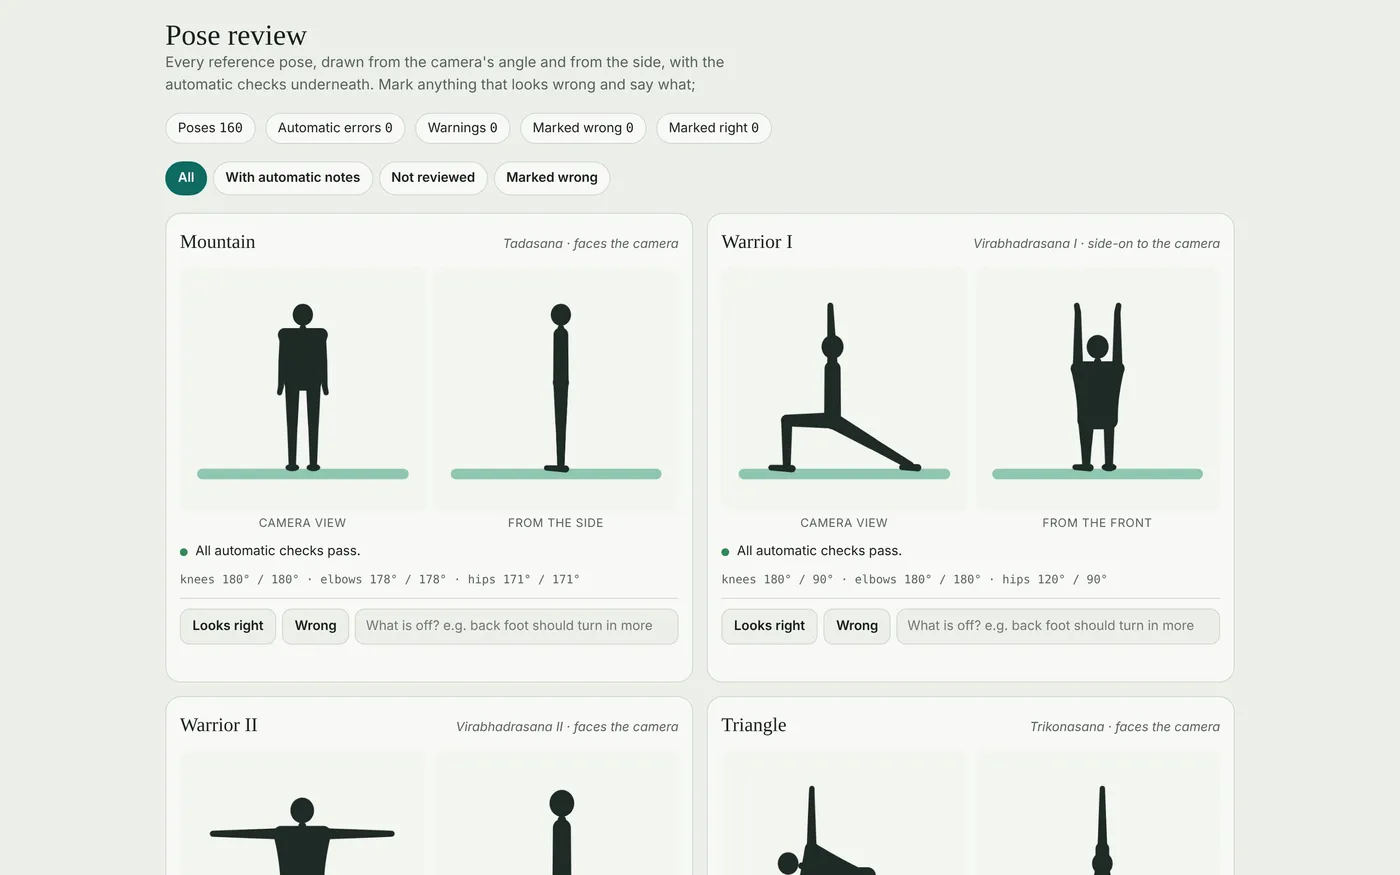
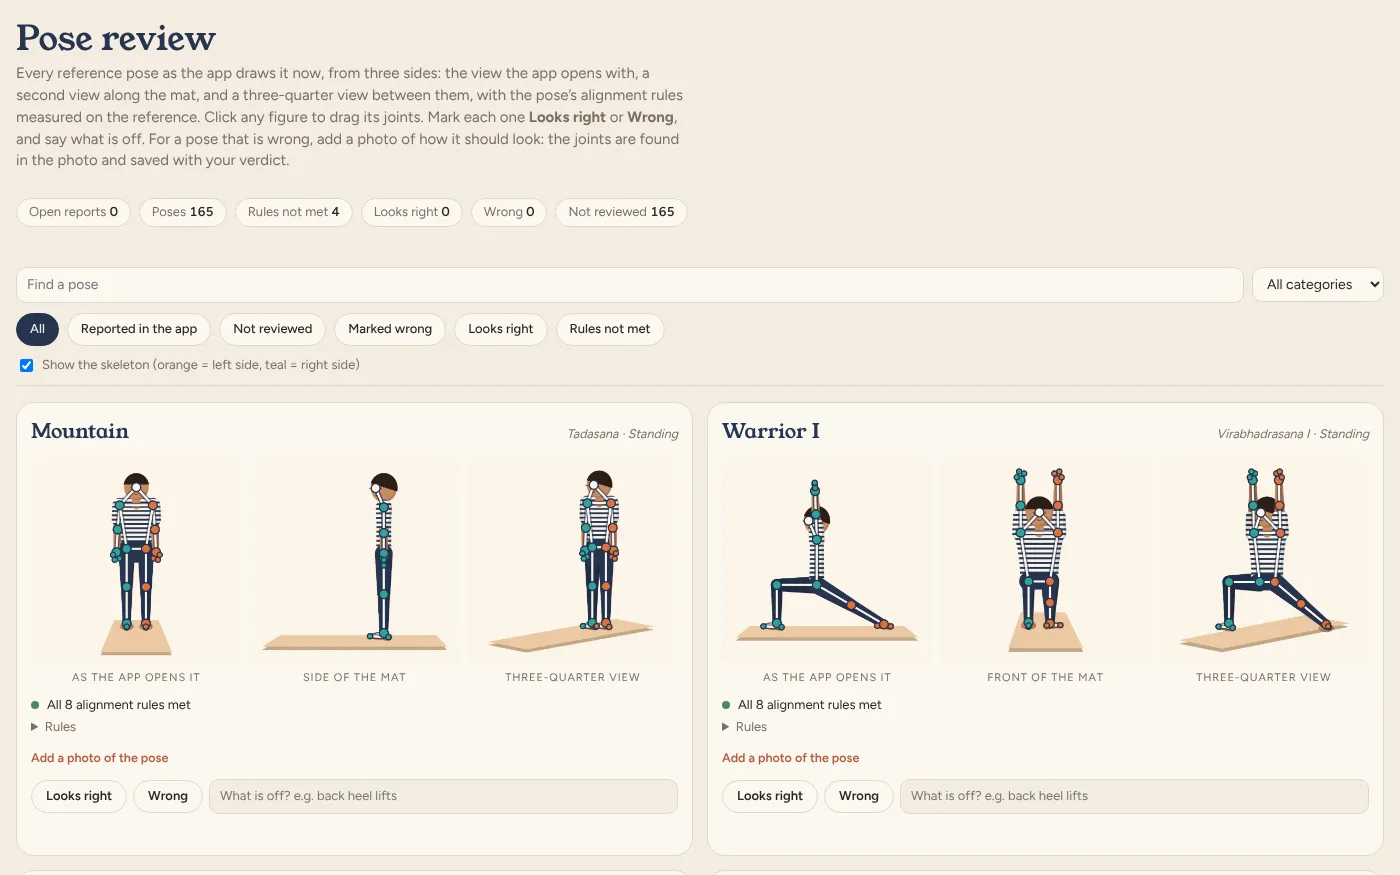
About: Pose Review updated: three views, joint editor, photos and live reports from the app
Claude-Session: https://claude.ai/code/session_01CBUG9Q88XkUZkxy4fPrrKj

diff --git a/about/index.html b/about/index.html
@@ -91,7 +91,7 @@ figcaption{font-size:14.5px;color:var(--muted)}
 .loop{display:flex;flex-wrap:wrap;gap:10px;align-items:center;margin-bottom:40px}
 .loop span{padding:9px 16px;border-radius:999px;background:var(--paper);border:1px solid var(--line);font-weight:600;color:var(--ink);font-size:15.5px}
 .loop i{font-style:normal;color:var(--terra);font-weight:700}
-.tools{display:grid;grid-template-columns:repeat(2,minmax(0,1fr));gap:28px}
+.tools{display:grid;grid-template-columns:repeat(2,minmax(0,1fr));gap:28px;grid-auto-flow:row dense}
 .tool{background:var(--paper);border:1px solid var(--line);border-radius:24px;padding:18px;display:flex;flex-direction:column;gap:14px}
 .tool .shot{border-radius:14px}
 .tool .tlabel{font-family:var(--f-mono);font-size:12.5px;letter-spacing:.12em;text-transform:uppercase;color:var(--terra)}
@@ -252,7 +252,9 @@ footer{padding-block:28px;font-size:14px;color:var(--muted)}
   <div class="head"><p class="eyebrow">04 · Review tools</p><h2>Small tools to check everything by eye</h2><p class="lede">165 poses, 320 transitions and 333 clips are too much to check inside the app, so I built a review page for each.</p></div>
   <div class="loop" aria-label="The review loop"><span>Look</span><i>→</i><span>Mark what’s wrong</span><i>→</i><span>Fix</span><i>→</i><span>Re-check everything</span></div>
   <div class="tools">
-    <div class="tool"><p class="tlabel">Poses · Pose Review</p><h3>Every pose, two views, one verdict</h3><img class="shot" src="/about/img/tool-posereview.webp" alt="Pose Review: poses drawn from two views with automatic checks and Looks right or Wrong buttons" width="1400" height="875" decoding="async"><p>Each pose from two sides of the mat, its rules measured on the reference, and a “Looks right” or “Wrong” with a note.</p></div>
+    <div class="tool wide"><p class="tlabel">Poses · Pose Review</p><h3>Every pose, three views, joints you can drag</h3>
+      <div class="pair"><img class="shot" src="/about/img/tool-posereview.webp" alt="Pose Review: Mountain and Warrior I each drawn from the view the app opens with, a second view along the mat and a three-quarter view, skeleton on, with rule results and Looks right or Wrong buttons" width="1400" height="875" loading="lazy" decoding="async"><img class="shot" src="/about/img/tool-posereview-editor.webp" alt="The joint editor: Dancer drawn large with draggable joints, orange for the left side and teal for the right, view buttons and Save joints" width="1400" height="875" loading="lazy" decoding="async"></div>
+      <p>Each of the 165 poses from three sides: the view the app opens with, a second view along the mat and a three-quarter view between them, with the skeleton drawn on (orange left, teal right) and its alignment rules measured on the reference. Click a figure to open it large and drag any joint; the figure follows, and the corrected joints are saved with a “Wrong” verdict so the pose can be fixed in the app. A wrong pose can also get up to two photos of how it should look; the joints are found in the photos and put on the figure. Reports people send from the app arrive live under “Reported in the app”, with the view they were looking at, and are marked handled once fixed.</p></div>
     <div class="tool"><p class="tlabel">Poses · Pose Fixer</p><h3>Show the fix instead of describing it</h3><img class="shot" src="/about/img/tool-fixer.webp" alt="Pose Fixer: Warrior II with draggable joint dots and view buttons" width="1400" height="875" decoding="async"><p>Drag a joint and the limb follows, from the front, side or back of the mat. The drawing is then solved into a 3D pose.</p></div>
     <div class="tool wide"><p class="tlabel">Poses · Image to pose</p><h3>From a photo to the figure in one step</h3>
       <div class="pair"><img class="shot" src="/about/img/tool-photo-ref.webp" alt="The reference image of a Warrior II" width="1080" height="940" decoding="async"><img class="shot" src="/about/img/tool-photo.webp" alt="The Pose Fixer after matching: the figure moved onto the 17 joints found in the image" width="1400" height="1345" decoding="async"></div>
